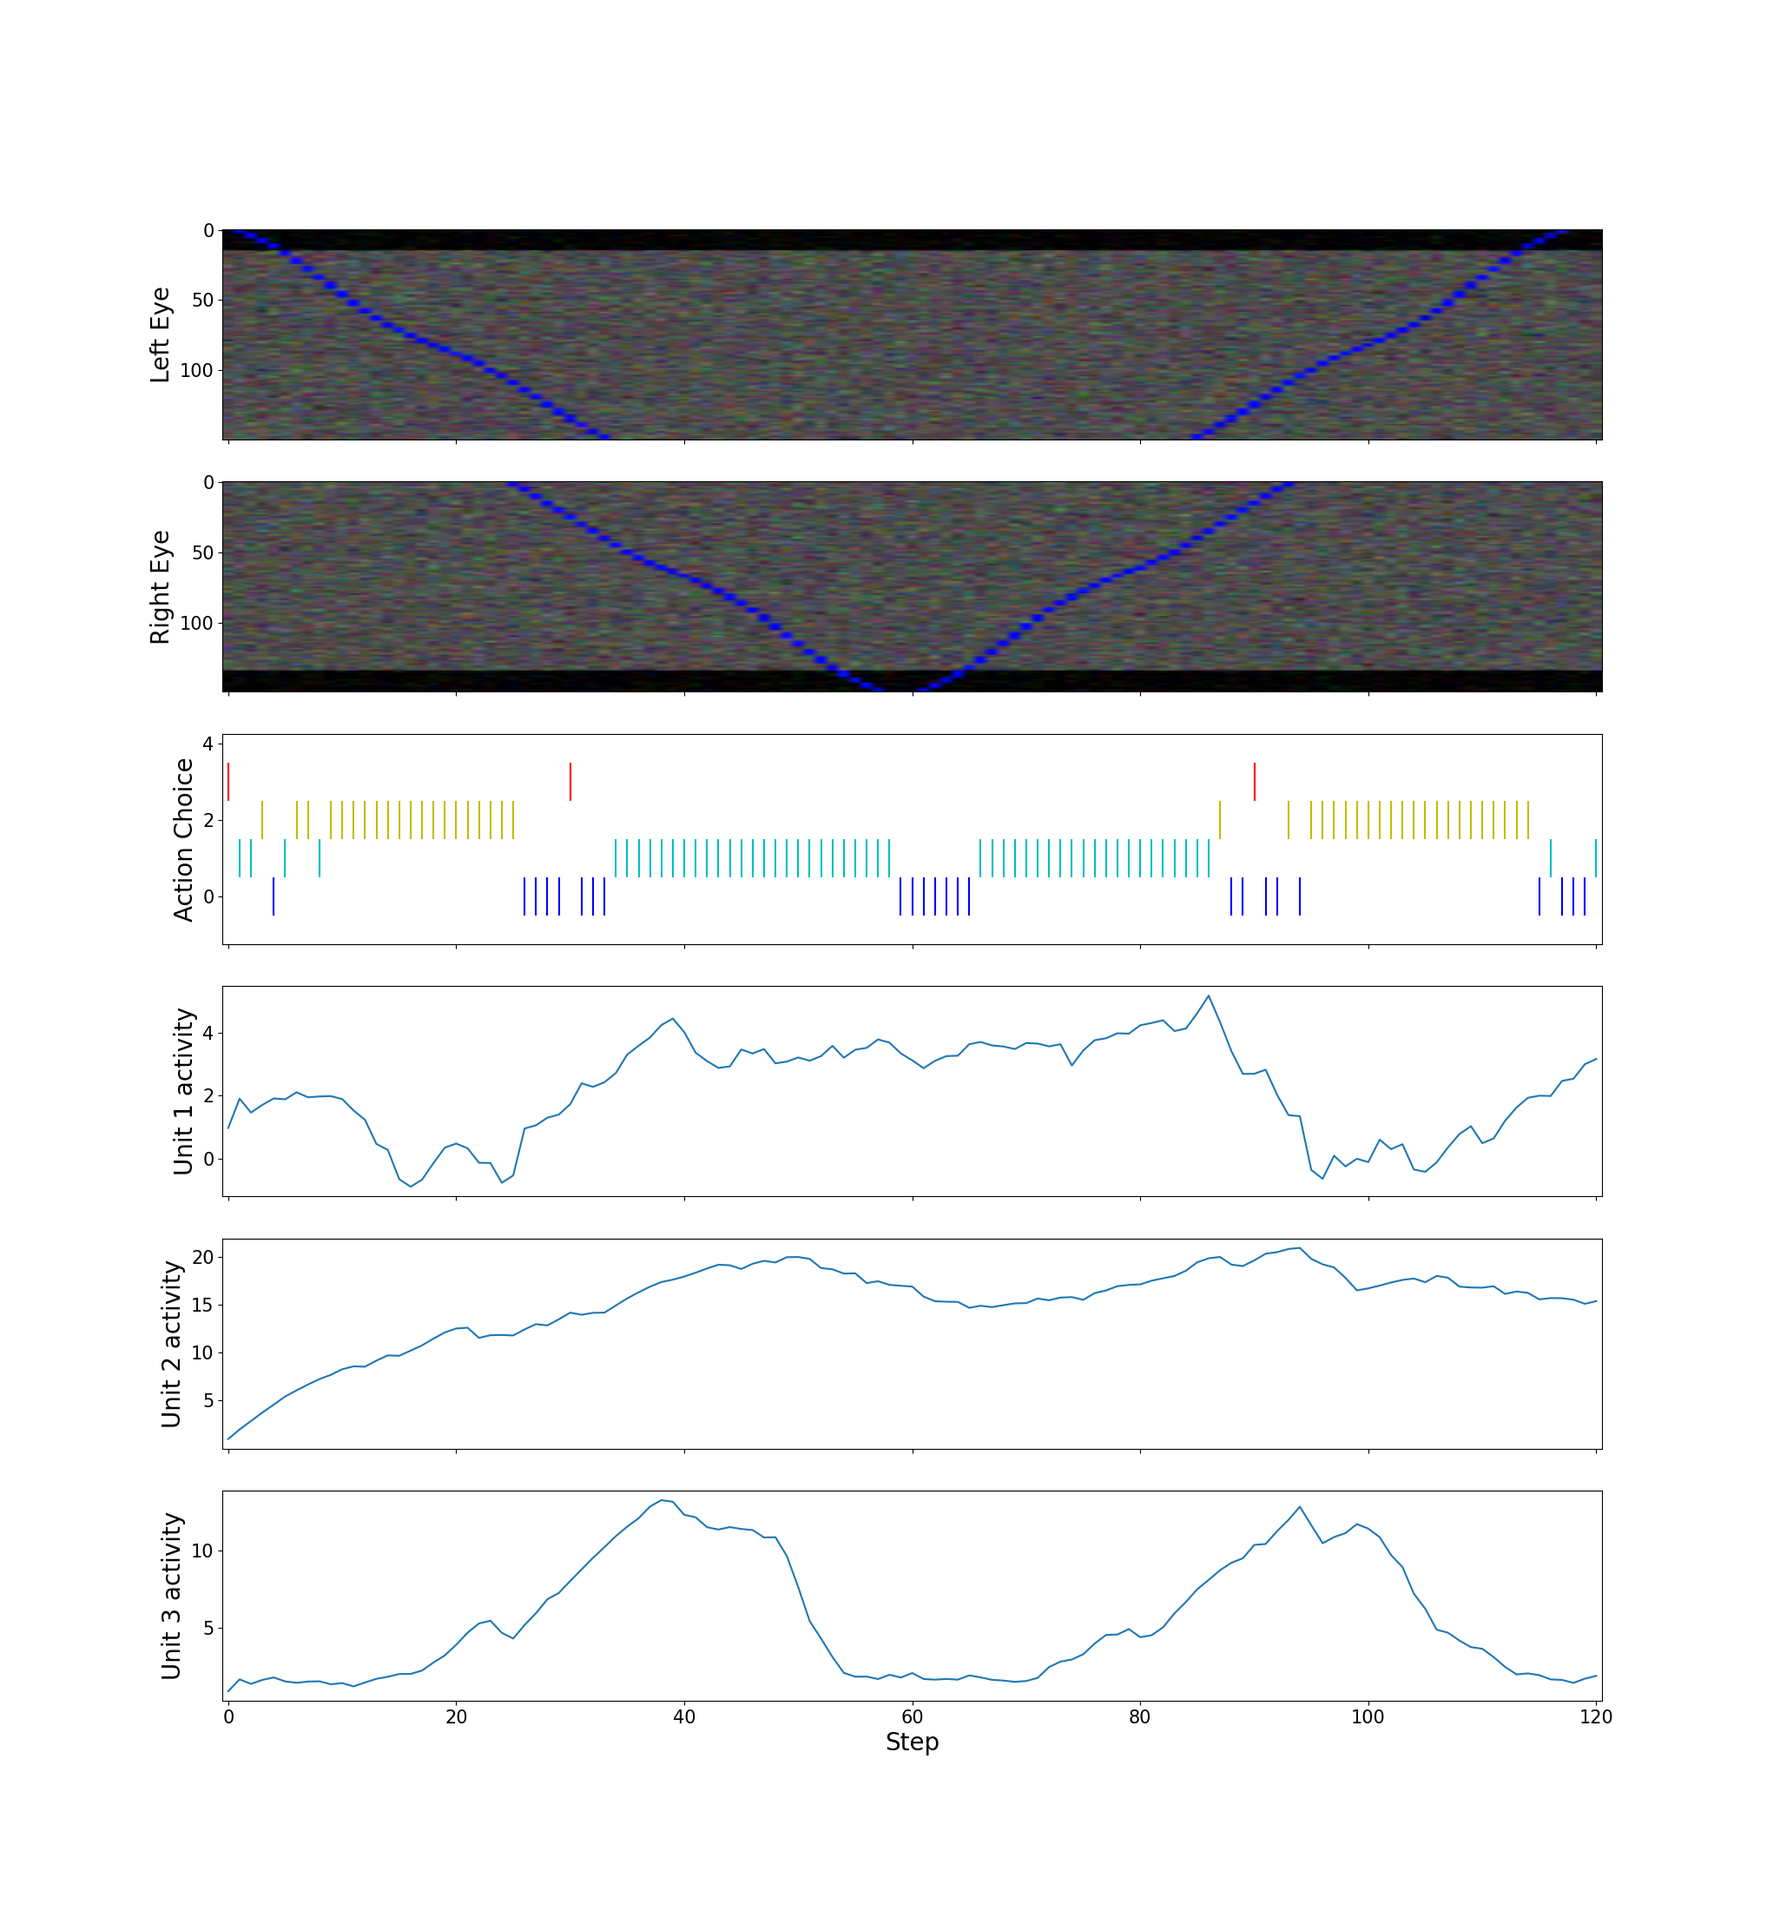
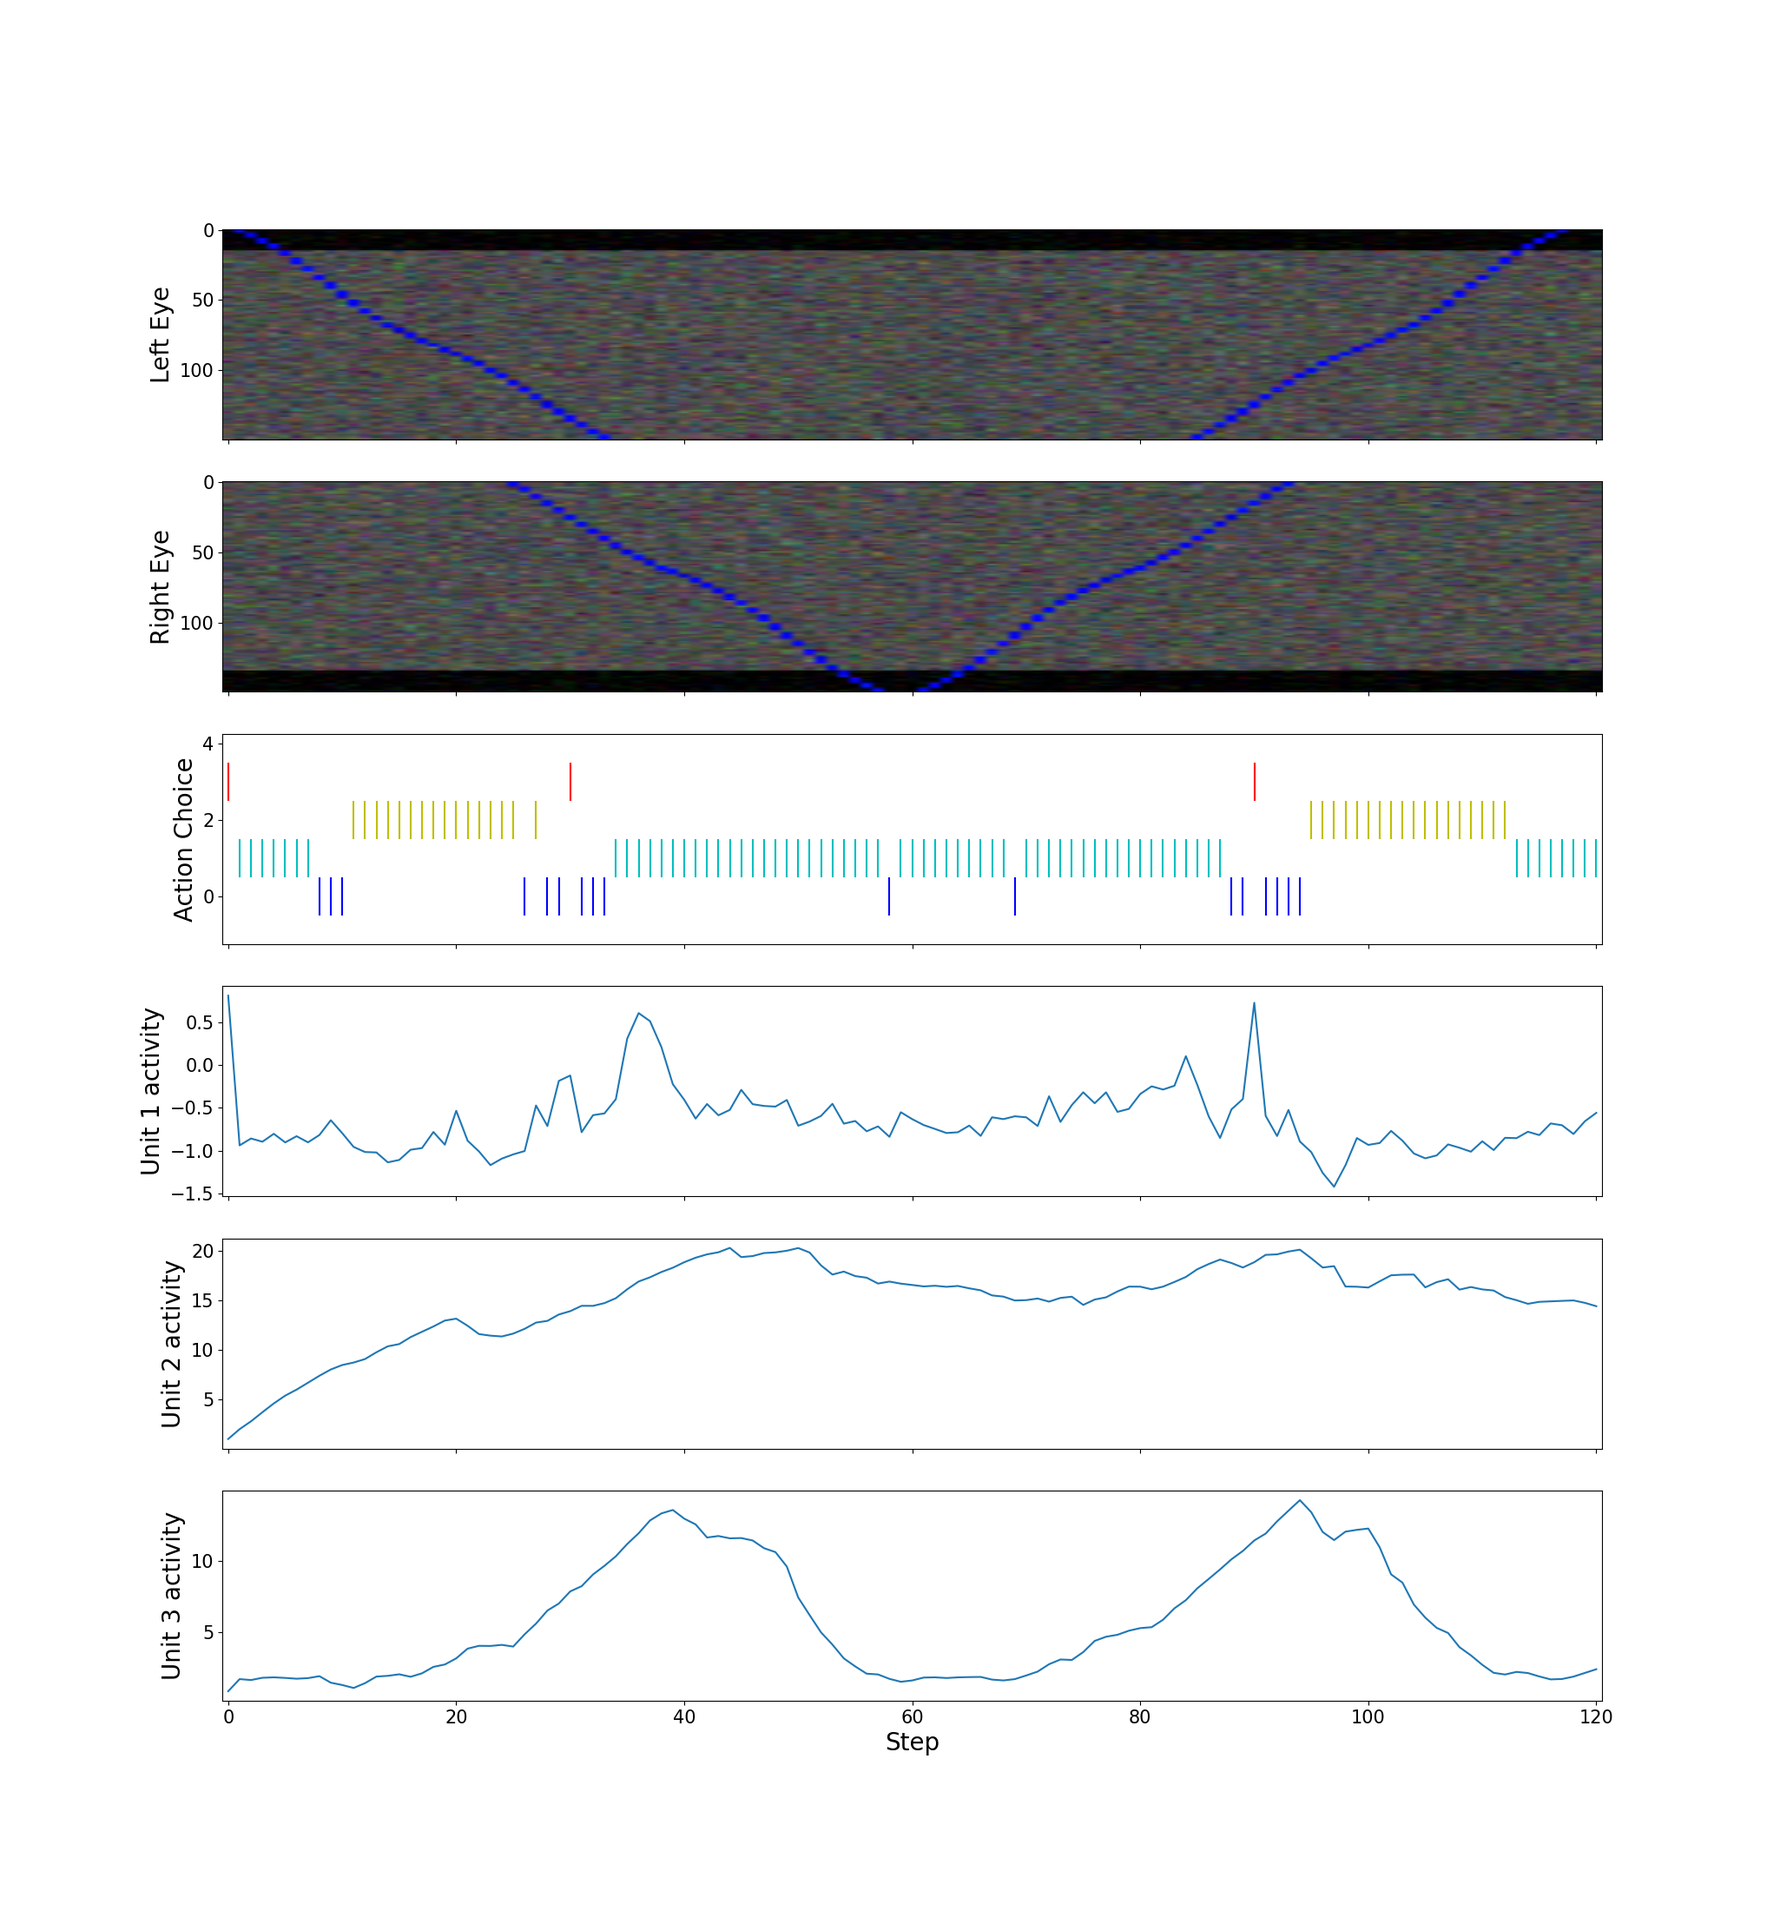
Added in HDF5 data use

diff --git a/Services/assay_service.py b/Services/assay_service.py
@@ -1,4 +1,5 @@
 import json
+import h5py
 
 import numpy as np
 import tensorflow.compat.v1 as tf
@@ -11,11 +12,13 @@ from Tools.make_gif import make_gif
 
 class AssayService:
 
-    def __init__(self, model_name, trial_number, learning_params, environment_params, assays):
+    def __init__(self, model_name, trial_number, assay_config_name, learning_params, environment_params, assays):
 
         self.model_id = f"{model_name}-{trial_number}"
         self.model_location = f"./Training-Output/{self.model_id}"
         self.data_save_location = f"./Assay-Output/{self.model_id}"
+
+        self.assay_configuration_id = assay_config_name
 
         self.learning_params = learning_params
         self.environment_params = environment_params
@@ -34,6 +37,8 @@ class AssayService:
 
         self.assay_output_data_format = None
         self.assay_output_data = []
+
+        self.output_data = {}
 
         self.step_number = 0
 
@@ -68,9 +73,15 @@ class AssayService:
             self.saver.restore(self.sess, checkpoint.model_checkpoint_path)
             print("Model loaded")
             for assay in self.assays:
+                self.create_output_data_storage(assay)
                 self.create_testing_environment(assay)
                 self.perform_assay(assay)
-                self.save_assay_results(assay)
+                # self.save_assay_results(assay)
+                self.save_hdf5_data(assay)
+
+    def create_output_data_storage(self, assay):
+        self.output_data = {key: [] for key in assay["recordings"]}
+        self.output_data["step"] = []
 
     def perform_assay(self, assay):
         self.assay_output_data_format = {key: None for key in assay["recordings"]}
@@ -108,14 +119,40 @@ class AssayService:
                                                                                                  frame_buffer=self.frame_buffer,
                                                                                                  save_frames=True,
                                                                                                  activations=(sa,))
+
+        # Old JSON saving
         possible_data_to_save = self.package_output_data(chosen_a, sa, updated_rnn_state,
                                                          self.simulation.fish.body.position)
-        self.make_recordings(possible_data_to_save)
+        # self.make_recordings(possible_data_to_save)
+
+        # New Saving for HDF5
+        for key in self.assay_output_data_format:
+            self.output_data[key].append(possible_data_to_save[key])
+        self.output_data["step"].append(self.step_number)
 
         return o, chosen_a, given_reward, internal_state, o1, d, updated_rnn_state
 
+    def save_hdf5_data(self, assay):
+        if assay["save frames"]:
+            make_gif(self.frame_buffer, f"{self.data_save_location}/{assay['assay id']}.gif",
+                     duration=len(self.frame_buffer) * self.learning_params['time_per_step'], true_image=True)
+        self.frame_buffer = []
+
+        hdf5_file = h5py.File(f"{self.data_save_location}/{self.assay_configuration_id}.h5", "a")
+        try:
+            assay_group = hdf5_file.create_group(assay['assay id'])
+        except ValueError:
+            assay_group = hdf5_file.get(assay['assay id'])
+
+        for key in self.output_data:
+            assay_group.create_dataset(key, data=self.output_data[key])  # TODO: Compress data.
+        hdf5_file.close()
+
     def make_recordings(self, available_data):
         step_data = {i: available_data[i] for i in self.assay_output_data_format}
+        # TODO: This will be a headache as I will have to make sure the lists are combined properly.
+        # for d_type in step_data:
+        #     self.assay_output_data[d_type].append(available_data[d_type])
         step_data["step"] = self.step_number
         self.assay_output_data.append(step_data)
 

diff --git a/Analysis-Tools/plot_activity_and_actions.py b/Analysis-Tools/plot_activity_and_actions.py
@@ -2,20 +2,7 @@ import json
 import numpy as np
 from matplotlib import pyplot as plt
 import matplotlib.cm as cm
-
-with open("../Assay-Output/base-1/Visual-Stimulus-Assay-1.json", "r") as file:
-    data = json.load(file)
-
-# TODO: Create code to load everything into a dataframe - should be own function for loading data.
-
-
-# Shorten action choice
-
-# action_choice = action_choice[200: 500]
-# rnn_unit_1 = rnn_unit_1[200: 500]
-# rnn_unit_2 = rnn_unit_2[200: 500]
-# rnn_unit_3 = rnn_unit_3[200: 500]
-# rnn_unit_200 = rnn_unit_200[200: 500]
+from load_data import load_data
 
 
 def calculate_average_rnn_activity():
@@ -103,6 +90,23 @@ def plot_activity_and_actions(rnn_data, action_data):
     plt.show()
 
 
+data = load_data("Prey Stimuli", "Visual-Stimulus-Assay-2")
+
+# with open("../Assay-Output/base-1/Visual-Stimulus-Assay-1.json", "r") as file:
+#     data = json.load(file)
+
+# TODO: Create code to load everything into a dataframe - should be own function for loading data.
+
+
+# Shorten action choice
+
+# action_choice = action_choice[200: 500]
+# rnn_unit_1 = rnn_unit_1[200: 500]
+# rnn_unit_2 = rnn_unit_2[200: 500]
+# rnn_unit_3 = rnn_unit_3[200: 500]
+# rnn_unit_200 = rnn_unit_200[200: 500]
+
+
 # To print individual for each action
 # for i in range(6):
 #     plot_activity_and_action(rnn_unit_1, i, action_choice)
@@ -111,11 +115,17 @@ def plot_activity_and_actions(rnn_data, action_data):
 #     plot_activity_and_action(rnn_unit_200, i, action_choice)
 
 # For all actions
-rnn_unit_1 = [i["rnn state"][0][0] for i in data]
-rnn_unit_3 = [i["rnn state"][0][19] for i in data]
-rnn_unit_200 = [i["rnn state"][0][190] for i in data]
+rnn_unit_1 = [data["rnn state"][i-1][0][0] for i in data["step"]]
+rnn_unit_3 = [data["rnn state"][i-1][0][19] for i in data["step"]]
+rnn_unit_200 = [data["rnn state"][i-1][0][190] for i in data["step"]]
 
-action_choice = [i["behavioural choice"] for i in data]
+action_choice = data["behavioural choice"]
+
+
+# rnn_unit_3 = [i["rnn state"][0][19] for i in data]
+# rnn_unit_200 = [i["rnn state"][0][190] for i in data]
+#
+# action_choice = [i["behavioural choice"] for i in data]
 unit_activity = [rnn_unit_1, rnn_unit_3, rnn_unit_200]
 plot_activity_and_actions(unit_activity, action_choice)
 

diff --git a/Analysis-Tools/plot_observation_action_choice_and_activity.py b/Analysis-Tools/plot_observation_action_choice_and_activity.py
@@ -1,6 +1,7 @@
 import json
 import numpy as np
 from matplotlib import pyplot as plt
+from load_data import load_data
 
 
 def plot_all(rnn_data, observation, action_choice):
@@ -47,7 +48,6 @@ def plot_all(rnn_data, observation, action_choice):
     fig.savefig('test2png.png', dpi=100)
     plt.show()
 
-
 def convert_photons_to_int(obs):
     new_obs = np.zeros((121, 400, 3), int)
     for i, time in enumerate(obs):
@@ -57,24 +57,23 @@ def convert_photons_to_int(obs):
     return new_obs
 
 
-with open("../Assay-Output/base-1/Visual-Stimulus-Assay-2.json", "r") as file:
-    data = json.load(file)
+data = load_data("Prey Stimuli", "Visual-Stimulus-Assay-2")
 
 # rnn_unit_1 = [i["rnn state"][0][0] for i in data]
 # rnn_unit_2 = [i["rnn state"][0][1] for i in data]
 # rnn_unit_3 = [i["rnn state"][0][2] for i in data]
 # rnn_unit_200 = [i["rnn state"][0][199] for i in data]
 
+rnn_unit_1 = [data["rnn state"][i-1][0][0] for i in data["step"]]
+rnn_unit_3 = [data["rnn state"][i-1][0][19] for i in data["step"]]
+rnn_unit_200 = [data["rnn state"][i-1][0][190] for i in data["step"]]
 
-rnn_unit_1 = [i["rnn state"][0][9] for i in data]
-rnn_unit_3 = [i["rnn state"][0][19] for i in data]
-rnn_unit_200 = [i["rnn state"][0][190] for i in data]
 
-action_choice = [i["behavioural choice"] for i in data]
+action_choice = data["behavioural choice"]
 unit_activity = [rnn_unit_1, rnn_unit_3, rnn_unit_200]
 
 
-observation = [i["observation"] for i in data]
+observation = data["observation"]
 
 observation = np.array(observation)
 

diff --git a/Analysis-Tools/plot_activity_and_observations.py b/Analysis-Tools/plot_activity_and_observations.py
@@ -2,6 +2,7 @@ import json
 import numpy as np
 from matplotlib import pyplot as plt
 import matplotlib.cm as cm
+from load_data import load_data
 
 
 def plot_activity(rnn_data, observation):
@@ -49,22 +50,15 @@ def convert_photons_to_int(obs):
     return new_obs
 
 
-with open("../Assay-Output/base-1/Visual-Stimulus-Assay-1.json", "r") as file:
-    data = json.load(file)
+# TODO: Make sure data load method fits.
+data = load_data("Prey Stimuli", "Visual-Stimulus-Assay-2")
 
-# rnn_unit_1 = [i["rnn state"][0][0] for i in data]
-# rnn_unit_2 = [i["rnn state"][0][1] for i in data]
-# rnn_unit_3 = [i["rnn state"][0][2] for i in data]
-# rnn_unit_200 = [i["rnn state"][0][199] for i in data]
+rnn_unit_1 = [data["rnn state"][i-1][0][0] for i in data["step"]]
+rnn_unit_2 = [data["rnn state"][i-1][0][2] for i in data["step"]]
+rnn_unit_3 = [data["rnn state"][i-1][0][19] for i in data["step"]]
+rnn_unit_200 = [data["rnn state"][i-1][0][190] for i in data["step"]]
 
-
-rnn_unit_1 = [i["rnn state"][0][100] for i in data]
-rnn_unit_2 = [i["rnn state"][0][110] for i in data]
-rnn_unit_3 = [i["rnn state"][0][120] for i in data]
-rnn_unit_200 = [i["rnn state"][0][190] for i in data]
-
-
-observation = [i["observation"] for i in data]
+observation = data["observation"]
 
 observation = np.array(observation)
 

diff --git a/run.py b/run.py
@@ -15,6 +15,7 @@ controlled_assay_configuration = [
         "Model Name": "base",
         "Environment Name": "test_square",
         "Trial Number": 1,
+        "Assay Configuration Name": "Prey Stimuli",
         "Run Mode": "Assay",
         "Priority": 1,
         "Assays": [
@@ -78,6 +79,7 @@ naturalistic_assay_configuration = [
     {
             "Model Name": "base",
             "Environment Name": "base",
+            "Assay Configuration Name": "Naturalistic",
             "Trial Number": 1,
             "Run Mode": "Assay",
             "Priority": 1,
@@ -107,5 +109,5 @@ training_configuration = [
     },
 ]
 
-manager = TrialManager(training_configuration)
+manager = TrialManager(controlled_assay_configuration)
 manager.run_priority_loop()

diff --git a/Analysis-Tools/plot_activity.py b/Analysis-Tools/plot_activity.py
@@ -2,6 +2,8 @@ import json
 import numpy as np
 from matplotlib import pyplot as plt
 import matplotlib.cm as cm
+from load_data import load_data
+
 
 def plot_activity(rnn_data):
     fig, axs = plt.subplots(4, 1, sharex=True)
@@ -25,11 +27,9 @@ def plot_activity(rnn_data):
     fig.savefig('test2png.png', dpi=100)
     plt.show()
 
+data = load_data("Prey Stimuli", "Visual-Stimulus-Assay-2")
 
-with open("../Assay-Output/base-1/Visual-Stimulus-Assay-1.json", "r") as file:
-    data = json.load(file)
 
-# TODO: Create code to load everything into a dataframe - should be own function for loading data.
 rnn_unit_1 = [i["rnn state"][0][0] for i in data]
 rnn_unit_2 = [i["rnn state"][0][1] for i in data]
 rnn_unit_3 = [i["rnn state"][0][2] for i in data]

diff --git a/Services/trial_manager.py b/Services/trial_manager.py
@@ -129,6 +129,7 @@ class TrialManager:
             elif trial["Run Mode"] == "Assay":
                 trial_services.append(AssayService(model_name=trial["Model Name"],
                                                    trial_number=trial["Trial Number"],
+                                                   assay_config_name=trial["Assay Configuration Name"],
                                                    learning_params=learning_params,
                                                    environment_params=environment_params,
                                                    assays=trial["Assays"]

diff --git a/Analysis-Tools/show_agent_track.py b/Analysis-Tools/show_agent_track.py
@@ -3,11 +3,15 @@ import json
 from matplotlib import pyplot as plt
 import matplotlib.cm as cm
 
-with open("../Assay-Output/base-1/Assay-1.json", "r") as file:
-    data = json.load(file)
+from load_data import load_data
 
-position =[i["position"] for i in data]
-action_choice = [i["behavioural choice"] for i in data]
+
+# TODO: Make sure data load method fits.
+data = load_data("Prey Stimuli", "Visual-Stimulus-Assay-2")
+
+
+position = data["position"]
+action_choice = data["behavioural choice"]
 
 # TODO: Ensure is the right way up in future.
 

diff --git a/Analysis-Tools/load_data.py b/Analysis-Tools/load_data.py
@@ -1,0 +1,18 @@
+import h5py
+import numpy as np
+
+# Note that RNN activity data is arange in the format - (unit, 1, timestep), so indexing properly is important.
+
+def load_data(configuration_name, assay_id):
+    """Loads the data of an individual assay from an assay configuration file."""
+
+    file = h5py.File(f"../Assay-Output/base-1/{configuration_name}.h5", "r")
+    g = file.get(assay_id)
+
+    data = {key: np.array(g.get(key)) for key in g.keys()}
+    print(data.keys())
+    return data
+
+
+
+

diff --git a/Analysis-Tools/show_photoreceptor_input.py b/Analysis-Tools/show_photoreceptor_input.py
@@ -6,10 +6,14 @@ from Tools.make_gif import make_gif
 
 # TODO: Not finished or used yet.
 
-with open("../Assay-Output/base-1/Assay-1.json", "r") as file:
-    data = json.load(file)
+from load_data import load_data
 
-observation = [i["observation"] for i in data]
+
+# TODO: Make sure data load method fits.
+data = load_data("Prey Stimuli", "Visual-Stimulus-Assay-2")
+
+
+observation = data["observation"]
 
 observation = np.array(observation)
 

diff --git a/Analysis-Tools/create_photoreceptor_input_graph.py b/Analysis-Tools/create_photoreceptor_input_graph.py
@@ -1,12 +1,13 @@
 import json
 import numpy as np
 import matplotlib.pyplot as plt
+from load_data import load_data
 
 
-with open("../Assay-Output/base-1/Visual-Stimulus-Assay-1.json", "r") as file:
-    data = json.load(file)
+data = load_data("Prey Stimuli", "Visual-Stimulus-Assay-2")
 
-observation = [i["observation"] for i in data]
+
+observation = data["observation"]
 
 observation = np.array(observation)
 
